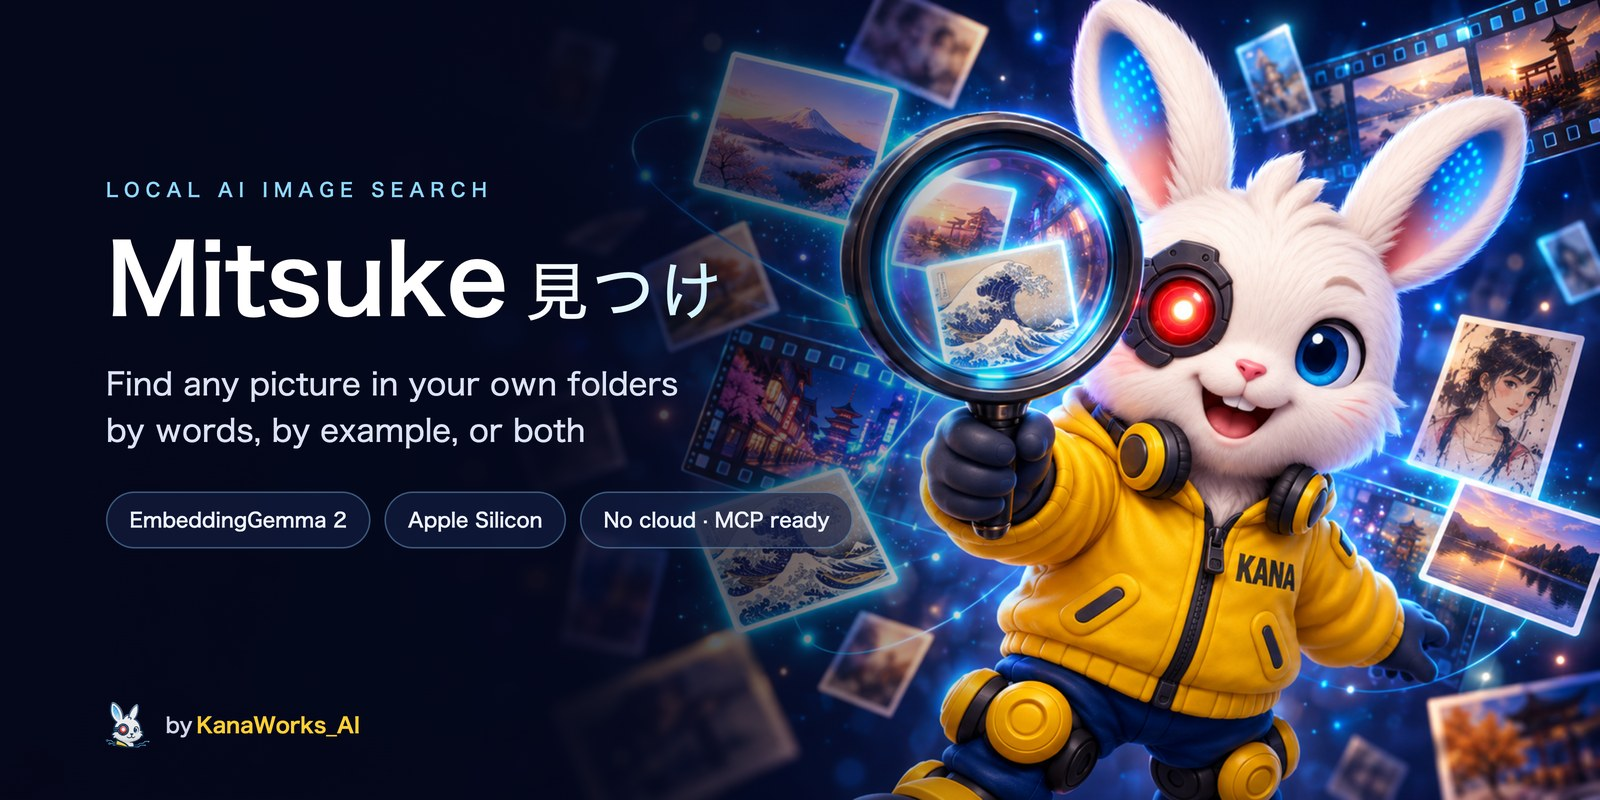
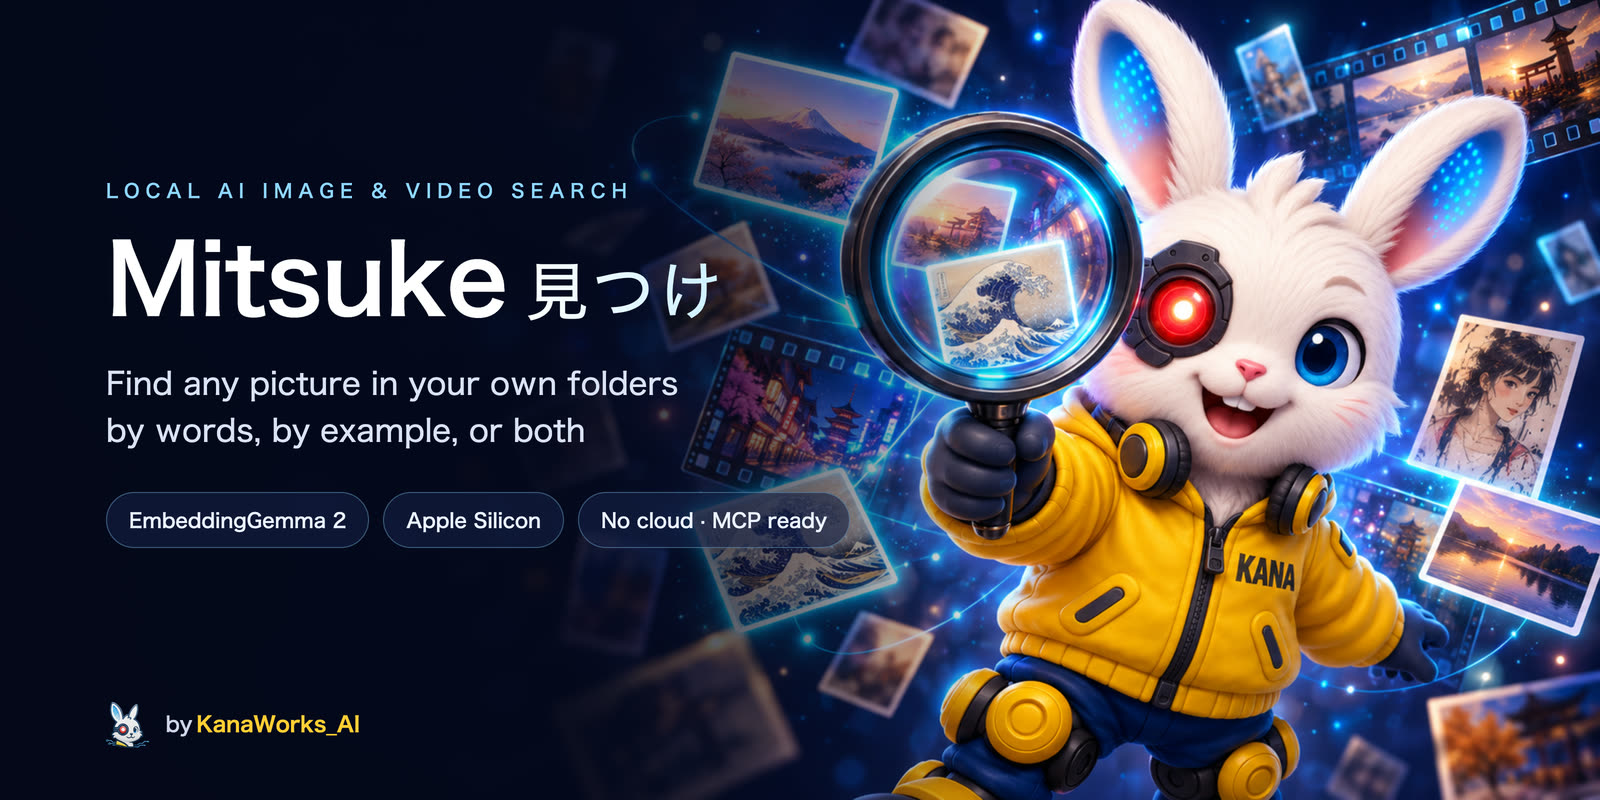
Tagline: local AI image and video search
README (en / ja / zh), the banners and social preview, the package
description, CLI --help and the skill description now say image and video
search: Mitsuke also finds the matching shot inside videos.

diff --git a/src/mitsuke/cli.py b/src/mitsuke/cli.py
@@ -681,7 +681,7 @@ def build_parser() -> argparse.ArgumentParser:
     common = argparse.ArgumentParser(add_help=False)
     # SUPPRESS on the sub-command copy so `mitsuke --json search …` and `mitsuke search … --json` both work
     common.add_argument("--json", action="store_true", default=argparse.SUPPRESS, help="machine-readable output (for agents and scripts)")
-    p = _Parser(prog="mitsuke", description="Local AI image search (EmbeddingGemma 2).")
+    p = _Parser(prog="mitsuke", description="Local AI image and video search (EmbeddingGemma 2).")
     p.add_argument("--json", action="store_true", help="machine-readable output (for agents and scripts)")
     p.add_argument("--version", action="version", version=f"mitsuke {__version__}")
     sub = p.add_subparsers(dest="cmd", required=True, metavar="command", parser_class=_Parser)

diff --git a/README.ja.md b/README.ja.md
@@ -1,6 +1,6 @@
 <div align="center">
 
-<img src="docs/assets/banner-ja.jpg" alt="Mitsuke 見つけ ローカル AI 画像検索：言葉でも、似た画像でも。手元のフォルダから、あの一枚を見つける" width="820">
+<img src="docs/assets/banner-ja.jpg" alt="Mitsuke 見つけ 画像と動画のローカル AI 検索：言葉でも、似た画像でも。手元のフォルダから、あの一枚を見つける" width="820">
 
 <p>
   <a href="LICENSE"><img alt="License: MIT" src="https://img.shields.io/badge/license-MIT-6b4dff?style=flat-square"></a>
@@ -19,7 +19,7 @@
 
 </div>
 
-**Mitsuke 見つけ** は、イラストレーター、アーティスト、映像制作者のためのローカル AI 画像検索ツールです。日本語、英語、中国語など多くの言語で、「雪の中の鳥居」「foggy bridge at dawn」「云雾缭绕的水墨山水」のように言葉で説明するだけで探せます。画像を見せて「これに似た感じで、夜の画像」と探すこともできます。写真、カメラ RAW、PSD、EXR / HDR、そして動画の中の該当するカットまで、手元のフォルダから見つけます。Google の [EmbeddingGemma 2](https://huggingface.co/google/embeddinggemma-2) がすべて Mac 上で動くので、画像が Mac の外に出ることはありません。
+**Mitsuke 見つけ** は、イラストレーター、アーティスト、映像制作者のための、画像と動画のローカル AI 検索ツールです。日本語、英語、中国語など多くの言語で、「雪の中の鳥居」「foggy bridge at dawn」「云雾缭绕的水墨山水」のように言葉で説明するだけで探せます。画像を見せて「これに似た感じで、夜の画像」と探すこともできます。写真、カメラ RAW、PSD、EXR / HDR、そして動画の中の該当するカットまで、手元のフォルダから見つけます。Google の [EmbeddingGemma 2](https://huggingface.co/google/embeddinggemma-2) がすべて Mac 上で動くので、画像が Mac の外に出ることはありません。
 
 ローカルの Web アプリやコマンドラインで使えるほか、MCP 経由で AI エージェント（Claude Code、Codex、Cursor など）に探してもらうこともできます。
 

diff --git a/README.zh-CN.md b/README.zh-CN.md
@@ -1,6 +1,6 @@
 <div align="center">
 
-<img src="docs/assets/banner-zh.jpg" alt="Mitsuke 見つけ：本地 AI 图片搜索。用文字、图片或两者组合，在自己的文件夹里找到那一张" width="820">
+<img src="docs/assets/banner-zh.jpg" alt="Mitsuke 見つけ：本地 AI 图片与视频搜索。用文字、图片或两者组合，在自己的文件夹里找到那一张" width="820">
 
 <p>
   <a href="LICENSE"><img alt="License: MIT" src="https://img.shields.io/badge/license-MIT-6b4dff?style=flat-square"></a>
@@ -19,7 +19,7 @@
 
 </div>
 
-**Mitsuke 見つけ**（日语，意为“找到”）是给画师、美术和影视工作者用的本地 AI 图片搜索工具。用中文、日文、英文等多种语言描述一张图（“云雾缭绕的水墨山水”“foggy bridge at dawn”“雪の中の鳥居”），或者拿一张图来找（“像这张，但是夜晚”），Mitsuke 就能在你自己的文件夹里找到它：照片、相机 RAW、PSD、EXR / HDR，还有视频里对应的那个镜头。模型是 Google 的 [EmbeddingGemma 2](https://huggingface.co/google/embeddinggemma-2)，完全在你的 Mac 上运行，图片不会离开这台电脑。
+**Mitsuke 見つけ**（日语，意为“找到”）是给画师、美术和影视工作者用的本地 AI 图片与视频搜索工具。用中文、日文、英文等多种语言描述一张图（“云雾缭绕的水墨山水”“foggy bridge at dawn”“雪の中の鳥居”），或者拿一张图来找（“像这张，但是夜晚”），Mitsuke 就能在你自己的文件夹里找到它：照片、相机 RAW、PSD、EXR / HDR，还有视频里对应的那个镜头。模型是 Google 的 [EmbeddingGemma 2](https://huggingface.co/google/embeddinggemma-2)，完全在你的 Mac 上运行，图片不会离开这台电脑。
 
 可以用本地网页、命令行，也可以通过 MCP 让你的 AI agent（Claude Code、Codex、Cursor 等）帮你找。
 

diff --git a/README.md b/README.md
@@ -1,6 +1,6 @@
 <div align="center">
 
-<img src="docs/assets/banner-en.jpg" alt="Mitsuke 見つけ: local AI image search. Find any picture in your own folders by words, by example, or both" width="820">
+<img src="docs/assets/banner-en.jpg" alt="Mitsuke 見つけ: local AI image and video search. Find any picture in your own folders by words, by example, or both" width="820">
 
 <p>
   <a href="LICENSE"><img alt="License: MIT" src="https://img.shields.io/badge/license-MIT-6b4dff?style=flat-square"></a>
@@ -19,7 +19,7 @@
 
 </div>
 
-**Mitsuke 見つけ** (Japanese for "find") is a local AI image search tool for artists, illustrators and filmmakers. Describe a picture in English, Japanese, Chinese or many other languages ("foggy bridge at dawn", "雪の中の鳥居", "云雾缭绕的水墨山水"), or show it another picture ("like this, but at night"). Mitsuke finds it in your own folders: photos, camera RAW, PSD, EXR / HDR, and the right shot inside your videos. It runs entirely on your Mac using Google's [EmbeddingGemma 2](https://huggingface.co/google/embeddinggemma-2), so your images never leave your computer.
+**Mitsuke 見つけ** (Japanese for "find") is a local AI image and video search tool for artists, illustrators and filmmakers. Describe a picture in English, Japanese, Chinese or many other languages ("foggy bridge at dawn", "雪の中の鳥居", "云雾缭绕的水墨山水"), or show it another picture ("like this, but at night"). Mitsuke finds it in your own folders: photos, camera RAW, PSD, EXR / HDR, and the right shot inside your videos. It runs entirely on your Mac using Google's [EmbeddingGemma 2](https://huggingface.co/google/embeddinggemma-2), so your images never leave your computer.
 
 Use it in a local web app, from the command line, or let your AI agent (Claude Code, Codex, Cursor, …) search for you through MCP.
 

diff --git a/src/mitsuke/skill/SKILL.md b/src/mitsuke/skill/SKILL.md
@@ -1,6 +1,6 @@
 ---
 name: mitsuke
-description: Search the user's own image and video folders on this Mac with Mitsuke 見つけ (local AI image search, EmbeddingGemma 2) — by description in any language, by example image, or image + words ("like this, but at night"); collect picks on moodboards and hand the user a link to the web app. Use whenever the user wants to find a picture, photo, reference, texture, concept art, RAW / PSD / EXR / HDR file or a shot inside their videos in their own files, asks "where is that image of…", wants references for a mood or a moodboard, or wants to add folders to or check the image index — even if they do not say "Mitsuke".
+description: Search the user's own image and video folders on this Mac with Mitsuke 見つけ (local AI image and video search, EmbeddingGemma 2) — by description in any language, by example image, or image + words ("like this, but at night"); collect picks on moodboards and hand the user a link to the web app. Use whenever the user wants to find a picture, photo, reference, texture, concept art, RAW / PSD / EXR / HDR file or a shot inside their videos in their own files, asks "where is that image of…", wants references for a mood or a moodboard, or wants to add folders to or check the image index — even if they do not say "Mitsuke".
 license: MIT
 compatibility: macOS on Apple Silicon. Needs the `mitsuke` command (see INSTALL.md in the Mitsuke repository); the MCP tools are used when the `mitsuke` MCP server is connected.
 ---
